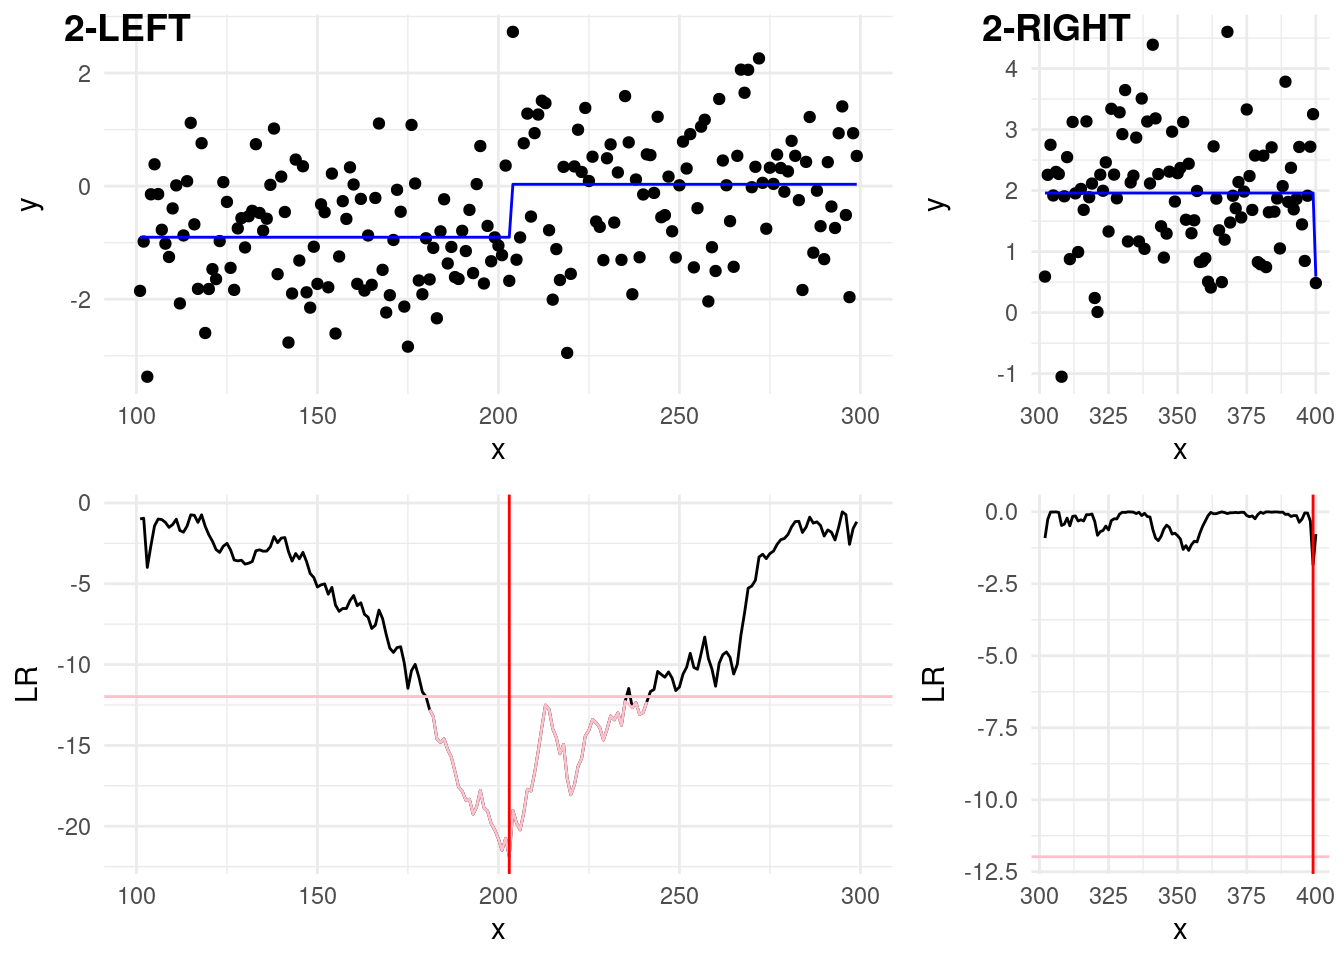
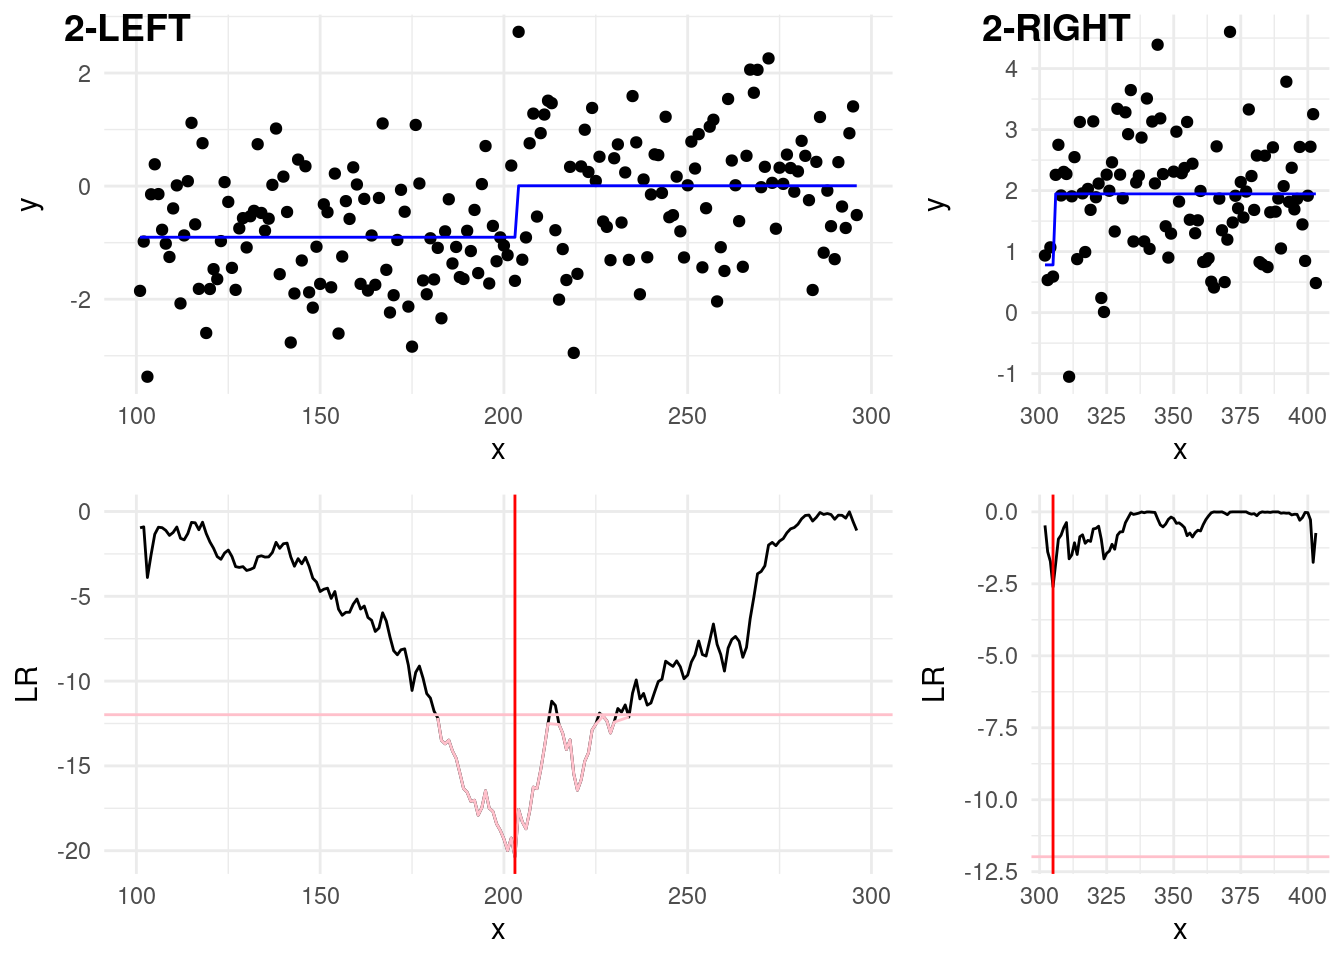
cleaned and improved descriptions of binseg

diff --git a/_book/3_multiple_changes.html b/_book/3_multiple_changes.html
@@ -399,8 +399,9 @@ y_t = \mu_k + \epsilon_t, \quad \text{for} \ \tau_k \leq t &lt; \tau_{k+1}, \ k 
 <section id="binary-segmentation-in-action" class="level3" data-number="3.2.1">
 <h3 data-number="3.2.1" class="anchored" data-anchor-id="binary-segmentation-in-action"><span class="header-section-number">3.2.1</span> Binary Segmentation in action</h3>
 <p>Having introduced the main idea, we show now how binary segmentation works in action with an example above. Say that we set a <span class="math inline">\(\beta = 2 \log(400) =\)</span> 11.98.</p>
-<p><strong>Step 0:</strong> We start by computing the cost as in <a href="#eq-bin_seg_condition" class="quarto-xref">Equation&nbsp;<span>3.1</span></a>, and for those that are less then <span class="math inline">\(\beta\)</span>, we pick the smallest. This will be our first changepoint estimate, and the first point of split.</p>
-<p>In the plots below, the blue horizontal line is the mean signal estimated for a given split, while in the cusum the pink will represent the values of the LR below the threshold <span class="math inline">\(\beta\)</span>, and red vertical line will show the min of the test statistics. When the cost is below the beta line, this will be our changepoint estimate:</p>
+<p><strong>Step 1:</strong> We start by computing the cost as in <a href="#eq-bin_seg_condition" class="quarto-xref">Equation&nbsp;<span>3.1</span></a>, and for those that are less then <span class="math inline">\(\beta\)</span>, we pick the smallest. This will be our first changepoint estimate, and the first point of split.</p>
+<p>In the plots below, the blue horizontal line is the mean signal estimated for a given split, while in the cusum the pink will represent the values of the LR below the threshold <span class="math inline">\(\beta\)</span>, and red vertical line will show the min of the test statistics. When the cost is below the beta line, this will be our changepoint estimate.</p>
+<p>In our case, we can see that the min of our cost has been achieved for <span class="math inline">\(\hat\tau=100\)</span>, and since this is below the threshold, it’s our first estimated changepoint!</p>
 <div class="cell">
 <div class="cell-output-display">
 <div>
@@ -410,7 +411,12 @@ y_t = \mu_k + \epsilon_t, \quad \text{for} \ \tau_k \leq t &lt; \tau_{k+1}, \ k 
 </div>
 </div>
 </div>
-<p>Step 1:</p>
+<p><strong>Step 2:</strong></p>
+<p>From the first step, we have to check now two splits:</p>
+<ul>
+<li><p>The first left split, <strong>1-LEFT</strong> in the plot below, covers data <span class="math inline">\(y_{1:100}\)</span>. We can see that from here, the min of our statistic is below the threshold, therefore we won’t declare any further change in this subset.</p></li>
+<li><p>The first right split, <strong>1-RIGHT</strong> covers data <span class="math inline">\(y_{101:400}\)</span>. We can see that here, the min of the statistics, is below the threshold, and therefore we identify a second change at <span class="math inline">\(\hat\tau = 297\)</span>. This is not exactly 300, so we don’t have a perfect estimate. Despite this is not ideal, this is the best point we have found and therefore we have to continue!</p></li>
+</ul>
 <div class="cell">
 <div class="cell-output-display">
 <div>
@@ -420,7 +426,12 @@ y_t = \mu_k + \epsilon_t, \quad \text{for} \ \tau_k \leq t &lt; \tau_{k+1}, \ k 
 </div>
 </div>
 </div>
-<p>Step 2:</p>
+<p><strong>Step 3:</strong></p>
+<p>In step 3, we have to check again two splits splits:</p>
+<ul>
+<li><p>The second left split, <strong>2-LEFT</strong> in the plot below, covers data <span class="math inline">\(y_{101:297}\)</span>. Now, it’s in this split that the statistics goes below the threshold! The third estimated change is at <span class="math inline">\(\hat\tau = 203\)</span>, again slightly off the real one at 200. We continue investigating this split…</p></li>
+<li><p>The second right split, <strong>2-RIGHT</strong> covers data <span class="math inline">\(y_{298:400}\)</span>. In this last split, the min is not over the threshold, therefore we stop the search.</p></li>
+</ul>
 <div class="cell">
 <div class="cell-output-display">
 <div>
@@ -430,7 +441,12 @@ y_t = \mu_k + \epsilon_t, \quad \text{for} \ \tau_k \leq t &lt; \tau_{k+1}, \ k 
 </div>
 </div>
 </div>
-<p>Step 3:</p>
+<p><strong>Step 4:</strong></p>
+<p>In step 4, we check:</p>
+<ul>
+<li><p>The third left split, <strong>3-LEFT</strong> in the plot below, covers data <span class="math inline">\(y_{101:203}\)</span>. The minimum, in here is not over the threshold.</p></li>
+<li><p>The third right split, <strong>3-RIGHT</strong> covers data <span class="math inline">\(y_{204:298}\)</span>. Similarly, the minimum is not over the treshold.</p></li>
+</ul>
 <div class="cell">
 <div class="cell-output-display">
 <div>
@@ -440,6 +456,28 @@ y_t = \mu_k + \epsilon_t, \quad \text{for} \ \tau_k \leq t &lt; \tau_{k+1}, \ k 
 </div>
 </div>
 </div>
+<p>The algorithm therefore terminates!</p>
+<p>With this graphical description in mind, we formally describe the Binary Segmentation algorithm as a recursive procedure, where the first iteration would be simply given by <span class="math inline">\(\text{BinSeg}(y_{1:n}, \beta)\)</span>.</p>
+<hr>
+<div class="line-block"><span class="math inline">\(\text{BinSeg}(y_{s:t}, \beta)\)</span><br>
+</div>
+<hr>
+<div class="line-block"><strong>INPUT:</strong> Subseries <span class="math inline">\(y_{s:t} = \{y_s, \dots, y_t\}\)</span> of length <span class="math inline">\(t - s + 1\)</span>, penalty <span class="math inline">\(\beta\)</span><br>
+<strong>OUTPUT:</strong> Set of detected changepoints <span class="math inline">\(cp\)</span><br>
+<br>
+<strong>IF</strong> <span class="math inline">\(t - s \leq 1\)</span><br>
+&nbsp;&nbsp;&nbsp;&nbsp;<strong>RETURN</strong> <span class="math inline">\(\{\}\)</span> // No changepoint in segments of length 1 or less<br>
+<br>
+<strong>COMPUTE</strong><br>
+<span class="math inline">\(\mathcal{Q} \leftarrow \underset{\tau \in \{s, \dots, t\}}{\min} \left[ \mathcal{L}(y_{s:\tau}) + \mathcal{L}(y_{\tau+1:t}) - \mathcal{L}(y_{s:t}) + \beta \right]\)</span><br>
+<br>
+<strong>IF</strong> <span class="math inline">\(\mathcal{Q} &lt; 0\)</span><br>
+&nbsp;&nbsp;&nbsp;&nbsp;<span class="math inline">\(\hat{\tau} \leftarrow \underset{\tau \in \{s, \dots, t\}}{\text{arg}\min} \left[ \mathcal{L}(y_{s:\tau}) + \mathcal{L}(y_{\tau+1:t}) - \mathcal{L}(y_{s:t}) \right]\)</span><br>
+&nbsp;&nbsp;&nbsp;&nbsp;&nbsp;<span class="math inline">\(cp \leftarrow \{ \hat{\tau}, \text{BinSeg}(y_{s:\hat{\tau}}, \beta), \text{BinSeg}(y_{\hat{\tau}+1:t}, \beta) \}\)</span><br>
+&nbsp;&nbsp;&nbsp;&nbsp;&nbsp;<strong>RETURN</strong> <span class="math inline">\(cp\)</span><br>
+<br>
+<strong>RETURN</strong> <span class="math inline">\(\{\}\)</span> // No changepoint if <span class="math inline">\(-LR/2\)</span> is above penalty <span class="math inline">\(- \beta\)</span></div>
+<hr>
 </section>
 </section>
 <section id="optimal-segmentation" class="level2" data-number="3.3">
